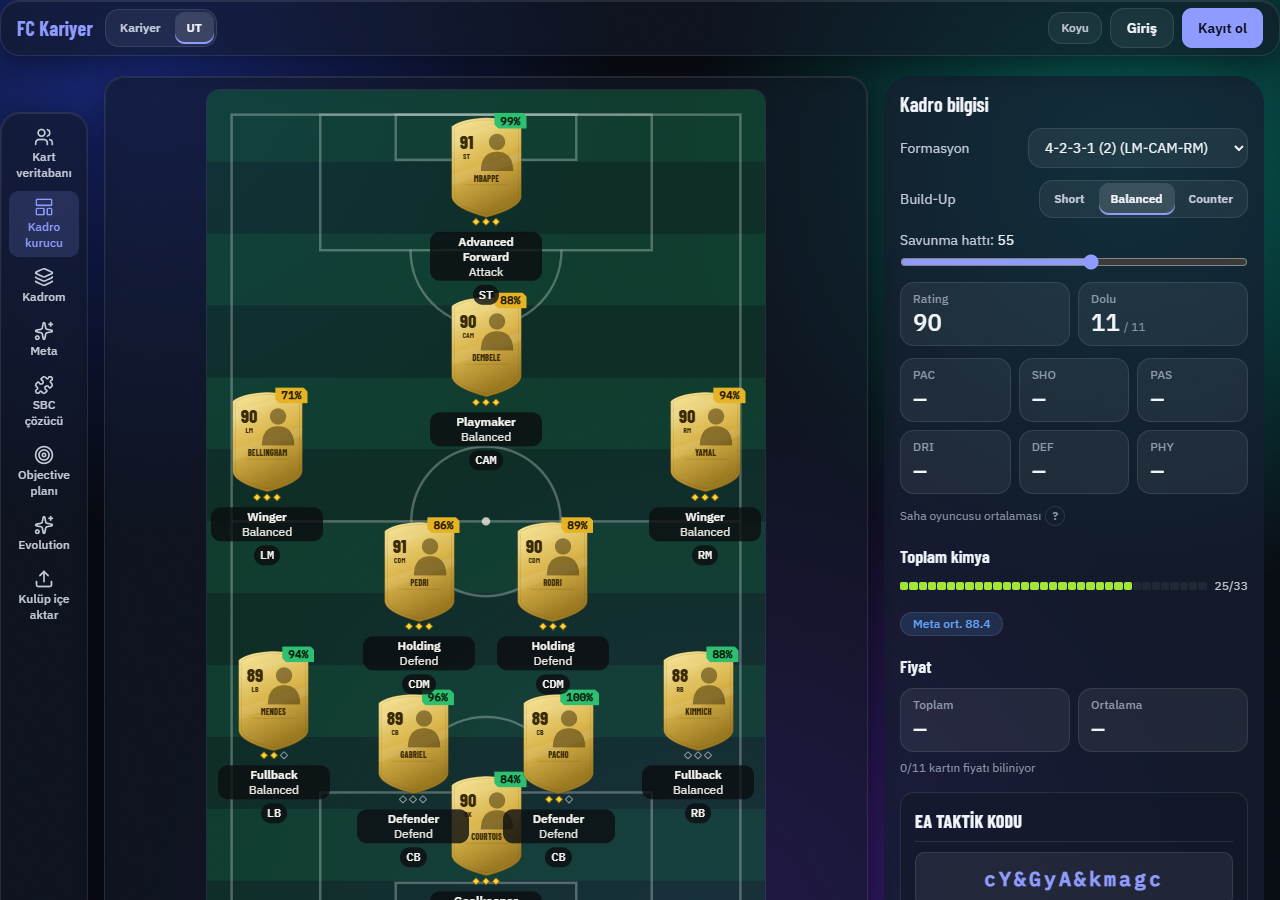
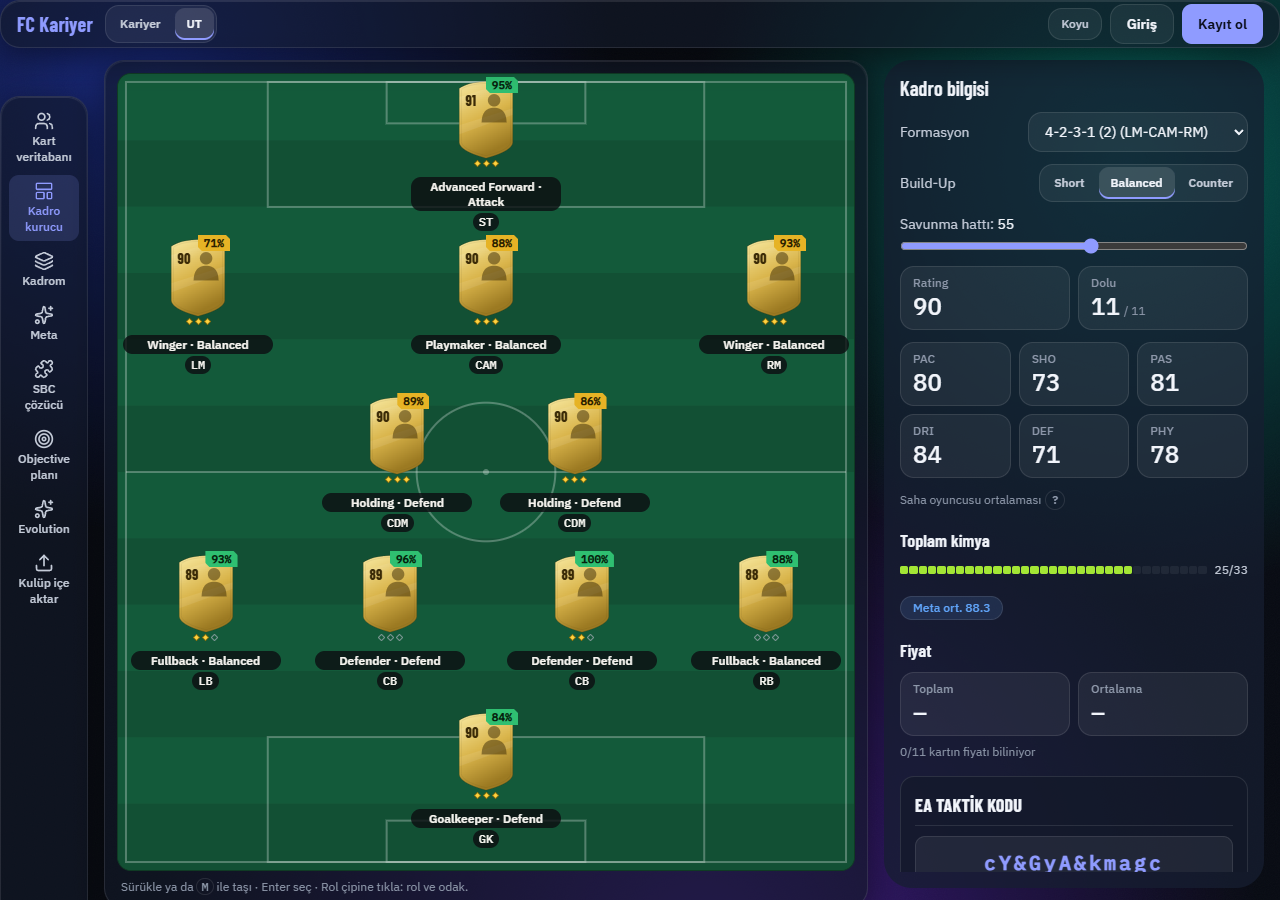
V3-04 Q18: okunabilirlik kapısı — kart ≥56/48px, kart içi yazı ≥11px, OVR ≥14px, kısaltmasız rol etiketi, kompakt üst bar + birleşik sekmeler, sticky yan panel
Q17 betiği her kombinasyon için cardWidth/minFont/ovrFont/fitsViewport yazar; 1440×900 eklendi. Scroll'suz sığma artık hedef.
BEHAVIOR CHANGE: masaüstünde saha kartı küçülmez (sığmazsa saha uzar); rol etiketi masaüstünde tam ad; üst bar 48px ve kariyer sekmeleri üst barda.

diff --git a/src/components/pitch/layout.ts b/src/components/pitch/layout.ts
@@ -3,7 +3,8 @@
  * Satır bantları formasyonun dikey katmanlarından kurulur (kaleci kendi bandında); sığmayan katman iki alt banda bölünür,
  * birbirine yakın ve yatayda çakışmayan katmanlar tek bantta birleşir. Gruplar hiçbir zaman kesişmez.
  */
-export type LabelMode = 'two' | 'one'
+/** 'full': tam rol adı (kısaltmasız), en çok 2 satır; 'one': dar ekranda tek satırlık kısa form. */
+export type LabelMode = 'full' | 'one'
 
 export interface LayoutSlot {
   slotId: string
@@ -39,18 +40,20 @@ export interface LayoutInput {
   height?: number
   /** Dar ekran: rol etiketi tek satırlık kısa form. */
   narrow: boolean
+  /** En küçük kart genişliği (Q18): ≥1024px'te 56, 375'te 48. Sığmazsa saha uzar (sayfa kayar), kart küçülmez. */
+  minCard?: number
 }
 
 const CARD_RATIO = 0.13
-export const MIN_CARD = 40
-const PREFERRED_MIN_CARD = 50
+export const MIN_CARD = 48
 const MAX_CARD = 96
 const CARD_HEIGHT_RATIO = 1.39
 const CHAIN_HEIGHT = 12
 const LABEL_GAP = 4
 const PILL_GAP = 2
 const PILL_HEIGHT = 18
-const LABEL_HEIGHT: Record<LabelMode, number> = { two: 36, one: 22 }
+const LABEL_HEIGHT: Record<LabelMode, number> = { full: 36, one: 22 }
+const FULL_LABEL_WIDTH = 150
 const ONE_LINE_LABEL_WIDTH = 96
 const GAP_X = 6
 const GAP_Y = 8
@@ -61,7 +64,7 @@ const MERGE_Y_PCT = 17
 const MIN_ASPECT = 1.35
 
 export function labelWidthOf(cardWidth: number, mode: LabelMode): number {
-  return mode === 'one' ? ONE_LINE_LABEL_WIDTH : Math.round(Math.min(112, Math.max(72, cardWidth * 1.9)))
+  return mode === 'one' ? ONE_LINE_LABEL_WIDTH : Math.max(FULL_LABEL_WIDTH, cardWidth)
 }
 
 export function groupWidthOf(cardWidth: number, mode: LabelMode): number {
@@ -172,9 +175,9 @@ function place(rows: LayoutSlot[][], cardWidth: number, mode: LabelMode, width: 
   })
 }
 
-export function layoutPitch({ slots, width, height, narrow }: LayoutInput): PitchLayout {
-  const modes: LabelMode[] = narrow ? ['one'] : ['two', 'one']
-  const widthCard = Math.round(Math.min(MAX_CARD, Math.max(MIN_CARD, width * CARD_RATIO)))
+export function layoutPitch({ slots, width, height, narrow, minCard = MIN_CARD }: LayoutInput): PitchLayout {
+  const modes: LabelMode[] = narrow ? ['one'] : ['full']
+  const widthCard = Math.round(Math.min(MAX_CARD, Math.max(minCard, width * CARD_RATIO)))
   if (height === undefined) {
     const mode = modes[0]
     const rows = buildRows(slots, groupWidthOf(widthCard, mode), width)
@@ -183,17 +186,16 @@ export function layoutPitch({ slots, width, height, narrow }: LayoutInput): Pitc
   }
   let fallback: PitchLayout | undefined
   for (const [pass, mode] of modes.entries()) {
-    const floor = pass === modes.length - 1 ? MIN_CARD : PREFERRED_MIN_CARD
-    for (let card = widthCard; card >= floor; card -= 1) {
+    for (let card = widthCard; card >= minCard; card -= 1) {
       const rows = buildRows(slots, groupWidthOf(card, mode), width)
       if (requiredHeight(rows.length, card, mode) <= height) {
         return { cardWidth: card, labelWidth: labelWidthOf(card, mode), labelMode: mode, fieldHeight: height, boxes: place(rows, card, mode, width, height), fits: true }
       }
     }
     if (pass === modes.length - 1) {
-      const rows = buildRows(slots, groupWidthOf(MIN_CARD, mode), width)
-      const need = requiredHeight(rows.length, MIN_CARD, mode)
-      fallback = { cardWidth: MIN_CARD, labelWidth: labelWidthOf(MIN_CARD, mode), labelMode: mode, fieldHeight: need, boxes: place(rows, MIN_CARD, mode, width, need), fits: false }
+      const rows = buildRows(slots, groupWidthOf(minCard, mode), width)
+      const need = requiredHeight(rows.length, minCard, mode)
+      fallback = { cardWidth: minCard, labelWidth: labelWidthOf(minCard, mode), labelMode: mode, fieldHeight: need, boxes: place(rows, minCard, mode, width, need), fits: false }
     }
   }
   return fallback as PitchLayout

diff --git a/src/components/pitch/Pitch.tsx b/src/components/pitch/Pitch.tsx
@@ -2,7 +2,7 @@ import { useEffect, useLayoutEffect, useMemo, useRef, useState } from 'react'
 import { PlayerCard, type CardPlayer } from '../card/PlayerCard'
 import type { FitState } from '../card/FitBadge'
 import { layoutPitch } from './layout'
-import { fitRoleName, shortRoleLabel } from './shortRole'
+import { shortRoleLabel } from './shortRole'
 
 export interface PitchSlot {
   slotId: string
@@ -134,7 +134,7 @@ export function Pitch({ slots, onPickPlayer, onPickRole, onRemove, onSwap }: Pro
 
   // Slot grubu (kart + rol + mevki) tek birimdir; bantlar formasyon katmanlarından, çakışmasız (Q17).
   const layout = useMemo(
-    () => layoutPitch({ slots: slots.map((s) => ({ slotId: s.slotId, x: s.x, y: s.y })), width: fieldWidth, height: available, narrow: fieldWidth < NARROW_PX }),
+    () => layoutPitch({ slots: slots.map((s) => ({ slotId: s.slotId, x: s.x, y: s.y })), width: fieldWidth, height: available, narrow: fieldWidth < NARROW_PX, minCard: fieldWidth < NARROW_PX ? 48 : window.innerWidth >= 1024 ? 56 : 52 }),
     [slots, fieldWidth, available],
   )
   const { cardWidth, labelWidth, labelMode, fieldHeight } = layout
@@ -225,8 +225,7 @@ export function Pitch({ slots, onPickPlayer, onPickRole, onRemove, onSwap }: Pro
         const dimmed = Boolean(hovered) && hover !== slot.slotId && !shares(hovered, slot.player)
         const linked = Boolean(hovered) && hover !== slot.slotId && shares(hovered, slot.player)
         const isOver = Boolean(drag) && drag?.over === slot.slotId && drag?.slotId !== slot.slotId
-        const [roleName, ...roleRest] = (slot.roleLabel ?? '').split(' · ')
-        return (
+                return (
           <div key={slot.slotId} data-slot-group={slot.slotId} className="absolute flex flex-col items-center text-center" style={{ left: box.cx - box.width / 2, top: box.top, width: box.width, height: box.height, opacity: drag?.slotId === slot.slotId ? 0.35 : dimmed ? 0.45 : 1 }}>
             <div className="group relative inline-block">
             <div
@@ -256,7 +255,7 @@ export function Pitch({ slots, onPickPlayer, onPickRole, onRemove, onSwap }: Pro
               style={{ touchAction: slot.player && onSwap ? 'pan-y' : undefined }}
             >
               {slot.player ? (
-                <PlayerCard player={slot.player} width={cardWidth} chem={slot.chem} fit={slot.fit} price={slot.price} />
+                <PlayerCard player={slot.player} width={cardWidth} chem={slot.chem} fit={slot.fit} price={slot.price} minText={11} minRating={14} />
               ) : (
                 <span className="flex flex-col items-center justify-center rounded-md border-2 border-dashed border-chalk/70 bg-grass-900/40 font-display text-chalk" style={{ width: cardWidth, height: Math.round(cardWidth * 1.39) }}>
                   <span className="text-xl leading-none">+</span>
@@ -292,10 +291,7 @@ export function Pitch({ slots, onPickPlayer, onPickRole, onRemove, onSwap }: Pro
                 {labelMode === 'one' ? (
                   <span className="block whitespace-nowrap">{shortRoleLabel(slot.roleLabel)}</span>
                 ) : (
-                  <>
-                    <span className="block whitespace-nowrap">{fitRoleName(roleName)}</span>
-                    {roleRest.length > 0 && <span className="block font-normal text-chalk">{roleRest.join(' · ')}</span>}
-                  </>
+                  <span className="block break-words">{slot.roleLabel}</span>
                 )}
               </button>
             )}

diff --git a/src/design/components/AppShell.tsx b/src/design/components/AppShell.tsx
@@ -61,10 +61,11 @@ export function AppShell() {
   useShellEffects(pathname)
   const nav = mode === 'ut' ? UT_NAV : NAV
   const active = nav.find((g) => isActive(g, pathname))
+  const showTabs = !/^\/players\/\d+/.test(pathname)
 
   return (
     <div className="min-h-screen text-ink">
-      <header className="glass sticky top-0 z-20 flex h-14 items-center gap-2 sm:gap-3 rounded-none border-x-0 border-t-0 px-4">
+      <header className="glass sticky top-0 z-20 flex h-12 items-center gap-2 sm:gap-3 rounded-none border-x-0 border-t-0 px-4">
         <NavLink to="/" className="shrink-0 font-display text-xl font-bold text-accent"><span className="max-[479px]:hidden">FC Kariyer</span><span className="min-[480px]:hidden">FC</span></NavLink>
         <Segmented
           label="Mod"
@@ -75,6 +76,20 @@ export function AppShell() {
             navigate(MODES.find((m) => m.id === id)?.home ?? '/')
           }}
         />
+        {showTabs && active?.tabs && (
+          <nav aria-label={`${active.label} sekmeleri`} className="ml-1 hidden min-w-0 items-center gap-1 min-[820px]:flex">
+            {active.tabs.map((tab) => (
+              <NavLink
+                key={tab.to}
+                to={tab.to}
+                end
+                className={({ isActive: on }) => `inline-flex min-h-8 items-center whitespace-nowrap rounded-[var(--radius-sm)] px-3 text-sm font-medium ${on ? 'bg-[var(--glass-press)] text-ink shadow-[inset_0_-2px_0_var(--accent)]' : 'text-ink-2 hover:bg-[var(--glass-hover)]'}`}
+              >
+                {tab.label}
+              </NavLink>
+            ))}
+          </nav>
+        )}
         <div className="ml-auto flex items-center gap-2">
           <button type="button" onClick={() => themeStore.cycle()} aria-label={`Tema: ${THEME_LABEL[theme]}. Değiştirmek için tıkla`} className="glass-3 min-h-8 px-3 text-xs font-medium text-ink-2 max-sm:hidden">
             {THEME_LABEL[theme]}
@@ -104,19 +119,19 @@ export function AppShell() {
       {authenticated && <VerifyEmailBanner />}
 
       <div className="flex">
-        <nav aria-label="Ana menü" className="glass sticky top-14 hidden h-[calc(100vh-3.5rem)] w-[88px] shrink-0 flex-col gap-1 overflow-y-auto rounded-none border-y-0 border-l-0 p-2 min-[820px]:flex">
+        <nav aria-label="Ana menü" className="glass sticky top-12 hidden h-[calc(100vh-3rem)] w-[88px] shrink-0 flex-col gap-1 overflow-y-auto rounded-none border-y-0 border-l-0 p-2 min-[820px]:flex">
           {nav.map((g) => (
             <RailLink key={g.to} group={g} active={g === active} />
           ))}
         </nav>
-        <main className="mx-auto w-full min-w-0 max-w-[1600px] px-4 pb-24 pt-5 min-[820px]:pb-8">
+        <main className="mx-auto w-full min-w-0 max-w-[1600px] px-4 pb-24 pt-3 min-[820px]:pb-8">
           {storageError && (
             <div role="alert" className="mb-3 rounded-[var(--radius-sm)] bg-[var(--warn-soft)] px-3 py-2 text-sm text-warn">
               {storageError}
             </div>
           )}
-          {active?.tabs && !/^\/players\/\d+/.test(pathname) && (
-            <nav aria-label={`${active.label} sekmeleri`} className="mb-4 flex flex-wrap gap-1">
+          {active?.tabs && showTabs && (
+            <nav aria-label={`${active.label} sekmeleri`} className="mb-4 flex flex-wrap gap-1 min-[820px]:hidden">
               {active.tabs.map((tab) => (
                 <NavLink
                   key={tab.to}

diff --git a/src/components/card/PlayerCard.tsx b/src/components/card/PlayerCard.tsx
@@ -36,6 +36,10 @@ export interface PlayerCardProps {
   fit?: { pct: number; state: FitState }
   price?: string
   className?: string
+  /** Okunabilirlik kapısı (Q18): ölçeklenmiş yazı bu px'in altına inecekse o öğe gizlenir (saha kartları 11). */
+  minText?: number
+  /** OVR'nin ölçeklenmiş en küçük px'i (saha kartları 14); küçük kartta OVR büyütülür. */
+  minRating?: number
 }
 
 const NAME_MIN_WIDTH = 72
@@ -48,16 +52,19 @@ const FRAME_PATH = 'M90 2 C122 2 160 10 176 24 L176 196 C176 214 150 232 90 248 
  * Tek oyuncu kartı (DS-05): 180×250 taban tasarım, boyut `transform: scale` ile ölçeklenir; böylece her boyutta oranlar sabit kalır.
  * Çerçeve kendi SVG'miz; portre yoksa ya da yüklenmezse silüet çizilir.
  */
-export function PlayerCard({ player, size = 'md', width, chem, fit, price, className = '' }: PlayerCardProps) {
+export function PlayerCard({ player, size = 'md', width, chem, fit, price, className = '', minText = 0, minRating = 0 }: PlayerCardProps) {
   const uid = useId().replace(/:/g, '')
   const [failed, setFailed] = useState(false)
   const w = width ?? SIZE_WIDTH[size]
   const scale = w / BASE_W
   const design = designFor(player.rating, player)
   const { look } = design
-  const showName = w >= NAME_MIN_WIDTH
-  const showMeta = w >= META_MIN_WIDTH
-  const showStats = w >= STATS_MIN_WIDTH && Boolean(player.faceStats?.length)
+  const readable = (basePx: number) => basePx * scale >= minText
+  const showName = w >= NAME_MIN_WIDTH && readable(21)
+  const showPosition = readable(19)
+  const showMeta = w >= META_MIN_WIDTH && readable(9)
+  const showStats = w >= STATS_MIN_WIDTH && readable(8) && Boolean(player.faceStats?.length)
+  const ratingBase = Math.max(46, minRating / scale)
   const face = assetUrl(player.faceUrl)
   const surname = player.name.split(' ').slice(-1)[0]
   const tags = [player.nationality, player.club, player.league].map(shortLabel)
@@ -101,8 +108,8 @@ export function PlayerCard({ player, size = 'md', width, chem, fit, price, class
         </svg>
 
         <div className="absolute font-display leading-none" style={{ left: 24, top: 38 }}>
-          <div style={{ fontSize: 46, fontWeight: 800 }}>{player.rating}</div>
-          {player.position && <div style={{ fontSize: 19, fontWeight: 700, marginTop: 2 }}>{player.position}</div>}
+          <div style={{ fontSize: ratingBase, fontWeight: 800 }}>{player.rating}</div>
+          {player.position && showPosition && <div style={{ fontSize: 19, fontWeight: 700, marginTop: 2 }}>{player.position}</div>}
           {showMeta && (
             <div className="mt-2 flex flex-col gap-1" style={{ fontSize: 9, fontWeight: 700 }}>
               {tags.filter(Boolean).map((tag, i) => (
@@ -150,7 +157,7 @@ export function PlayerCard({ player, size = 'md', width, chem, fit, price, class
       {(chem !== undefined || price) && (
         <div className="absolute left-0 right-0 flex items-center justify-center gap-1" style={{ bottom: -Math.max(8, w * 0.1) }}>
           {chem !== undefined && <ChemDiamonds value={chem} size={Math.max(7, Math.round(w * 0.11))} />}
-          {price && <span className="num rounded-[3px] bg-ink-950/85 px-1 text-[10px] font-medium text-flood-400">{price}</span>}
+          {price && <span className="num rounded-[3px] bg-ink-950/85 px-1 text-[11px] font-medium text-flood-400">{price}</span>}
         </div>
       )}
     </div>

diff --git a/src/components/pitch/layout.test.ts b/src/components/pitch/layout.test.ts
@@ -2,18 +2,19 @@ import { describe, expect, it } from 'vitest'
 import formations from './__fixtures__/formations.json'
 import roles from './__fixtures__/roles.json'
 import { buildRows, groupWidthOf, layoutPitch, overlaps } from './layout'
-import { SHORT_ROLE_MAX_CHARS, fitRoleName, shortRoleLabel } from './shortRole'
+import { SHORT_ROLE_MAX_CHARS, shortRoleLabel } from './shortRole'
 
 // Q17 (11 §8): slot gruplarının sınır kutuları hiçbir formasyonda ve boyutta kesişmez.
 const SIZES = [
-  { name: '375', width: 330, height: undefined, narrow: true },
-  { name: '768', width: 700, height: undefined, narrow: false },
-  { name: '1280×800', width: 600, height: 630, narrow: false },
+  { name: '375', width: 330, height: undefined, narrow: true, minCard: 48 },
+  { name: '768', width: 700, height: undefined, narrow: false, minCard: 52 },
+  { name: '1280×800', width: 700, height: 640, narrow: false, minCard: 56 },
+  { name: '1440×900', width: 800, height: 740, narrow: false, minCard: 56 },
 ]
 
-describe.each(SIZES)('saha yerleşimi — $name', ({ width, height, narrow }) => {
+describe.each(SIZES)('saha yerleşimi — $name', ({ width, height, narrow, minCard }) => {
   it.each(formations.map((f) => [f.id, f]))('%s: gruplar kesişmez, sahada kalır', (_id, formation) => {
-    const layout = layoutPitch({ slots: formation.slots, width, height, narrow })
+    const layout = layoutPitch({ slots: formation.slots, width, height, narrow, minCard })
 
     expect(layout.boxes).toHaveLength(formation.slots.length)
     layout.boxes.forEach((box) => {
@@ -25,12 +26,15 @@ describe.each(SIZES)('saha yerleşimi — $name', ({ width, height, narrow }) =>
     layout.boxes.forEach((a, i) => layout.boxes.slice(i + 1).forEach((b) => expect(overlaps(a, b), `${a.slotId} × ${b.slotId}`).toBe(false)))
   })
 
-  if (height !== undefined) {
-    it('1280×800: tüm formasyonlar scroll gerektirmeden sığar, kart ≥ 40px', () => {
-      const bad = formations.filter((f) => !layoutPitch({ slots: f.slots, width, height, narrow }).fits).map((f) => f.id)
-      expect(bad).toEqual([])
+  it('okunabilirlik (Q18): kart asla minimumun altına inmez; sığmazsa saha uzar', () => {
+    formations.forEach((f) => {
+      const layout = layoutPitch({ slots: f.slots, width, height, narrow, minCard })
+      expect(layout.cardWidth, f.id).toBeGreaterThanOrEqual(minCard)
+      if (!layout.fits) {
+        expect(layout.fieldHeight, f.id).toBeGreaterThan(height ?? 0)
+      }
     })
-  }
+  })
 })
 
 describe('rol etiketi kısa formu (375)', () => {
@@ -45,15 +49,9 @@ describe('bant kuralları', () => {
   it('kaleci kendi bandında kalır', () => {
     formations.forEach((f) => {
       const gk = f.slots.find((s) => s.position === 'GK')!
-      const rows = buildRows(f.slots, groupWidthOf(50, 'two'), 600)
+      const rows = buildRows(f.slots, groupWidthOf(56, 'full'), 600)
       expect(rows.find((r) => r.some((s) => s.slotId === gk.slotId))).toHaveLength(1)
     })
   })
 })
 
-describe('iki satırlı etiket (masaüstü/tablet)', () => {
-  it('en uzun rol adı bile tek satıra sığar', () => {
-    const longest = Math.max(...roles.map((r) => fitRoleName(r.name.replace(/\s*\(.*\)\s*$/, '')).length))
-    expect(longest).toBeLessThanOrEqual(14)
-  })
-})

diff --git a/src/design/components/primitives.tsx b/src/design/components/primitives.tsx
@@ -181,7 +181,7 @@ export function SidePanel({ title, onClose, children, open = true, sheet = false
       tabIndex={-1}
       aria-label={title}
       onKeyDown={(e) => e.key === 'Escape' && onClose?.()}
-      className={cx('glass-2 flex flex-col overflow-hidden p-4 text-ink outline-none min-[820px]:static min-[820px]:max-h-none min-[820px]:w-[380px] min-[820px]:shrink-0', sheet && 'fixed inset-x-0 bottom-0 z-30 max-h-[85vh]')}
+      className={cx('glass-2 flex flex-col overflow-hidden p-4 text-ink outline-none min-[820px]:sticky min-[820px]:top-14 min-[820px]:max-h-[calc(100dvh-4.5rem)] min-[820px]:w-[380px] min-[820px]:shrink-0 min-[820px]:self-start', sheet && 'fixed inset-x-0 bottom-0 z-30 max-h-[85vh]')}
     >
       <header className="mb-3 flex items-center justify-between gap-2">
         <h2 className="font-display text-xl font-semibold leading-6">{title}</h2>

diff --git a/docs/review/v2/11_GLASSMORPHISM_TASARIM_V3.md b/docs/review/v2/11_GLASSMORPHISM_TASARIM_V3.md
@@ -177,7 +177,8 @@ v3 bir sayfa için ancak şu kontrol listesi yeşilse "bitti" sayılır (PR şab
 | Q13 | Chip: yazı ≥ 12px, dokunma hedefi ≥ 32px (mobilde 44px) | Playwright ölçüm |
 | Q14 | Giriş/Kayıt: tek birincil eylem (Kayıt ol primary, Giriş secondary/ghost), tüm sayfalarda aynı | Görsel snapshot |
 | Q15 | axe serious/critical ihlal sayısı 0 (her v3 ekranı) | `@axe-core/playwright` |
-| Q17 | Çakışma yok: slot gruplarının (kart + rol + mevki) sınır kutuları hiçbir formasyonda ve boyutta kesişmez, içerik grup kutusundan taşmaz, rol etiketi kesilmez (en uzun rol adıyla); 1280×800'de saha kaydırma istemez | `scripts/q17.mjs` (29 formasyon × 375/768/1280×800 × boş/dolu × UT/kariyer) + `pitch/layout.test.ts` |
+| Q17 | Çakışma yok: slot gruplarının (kart + rol + mevki) sınır kutuları hiçbir formasyonda ve boyutta kesişmez, içerik grup kutusundan taşmaz, rol etiketi kesilmez (en uzun rol adıyla); kaydırmasız sığma yalnız **hedef**tir (kapı değil, bkz. Q18 öncelik sırası) | `scripts/q17.mjs` (29 formasyon × 375/768/1280×800 × boş/dolu × UT/kariyer) + `pitch/layout.test.ts` |
+| Q18 | Okunabilirlik (öncelik: 1 Q17 çakışma yok, 2 Q18, 3 kaydırmasız sığma = hedef): ≥1024px'te saha kartı ≥56px, 375px'te ≥48px; kart içi hiçbir yazı <11px, OVR ≥14px. Masaüstünde rol etiketi kısaltılmaz (≤150px, en çok 2 satır); kısa form yalnız <480px. Sığmazsa saha uzar ve sayfa kayar, sağ panel sticky kalır | `scripts/q17.mjs` (her kombinasyon için cardWidth, minFont, ovrFont, fitsViewport raporu) + `pitch/layout.test.ts` |
 | Q16 | UT ve kariyer kadro sayfaları `src/features/squad/` çekirdeğini paylaşır: tek çözme sorgusu, tek taktik kodu bileşeni, ortak formasyon/rol/eski-kayıt temizliği ve yan panel şablonu. Yeni kadro/taktik işi çekirdeğe girer; yalnız-UT / yalnız-kariyer olan iş raporda gerekçesiyle yazılır | `src/features/squad/q16.test.ts` + `describe.each(['ut','career'])` parite testleri |
 
 Sayfa ↔ kapatılması zorunlu buglar:
